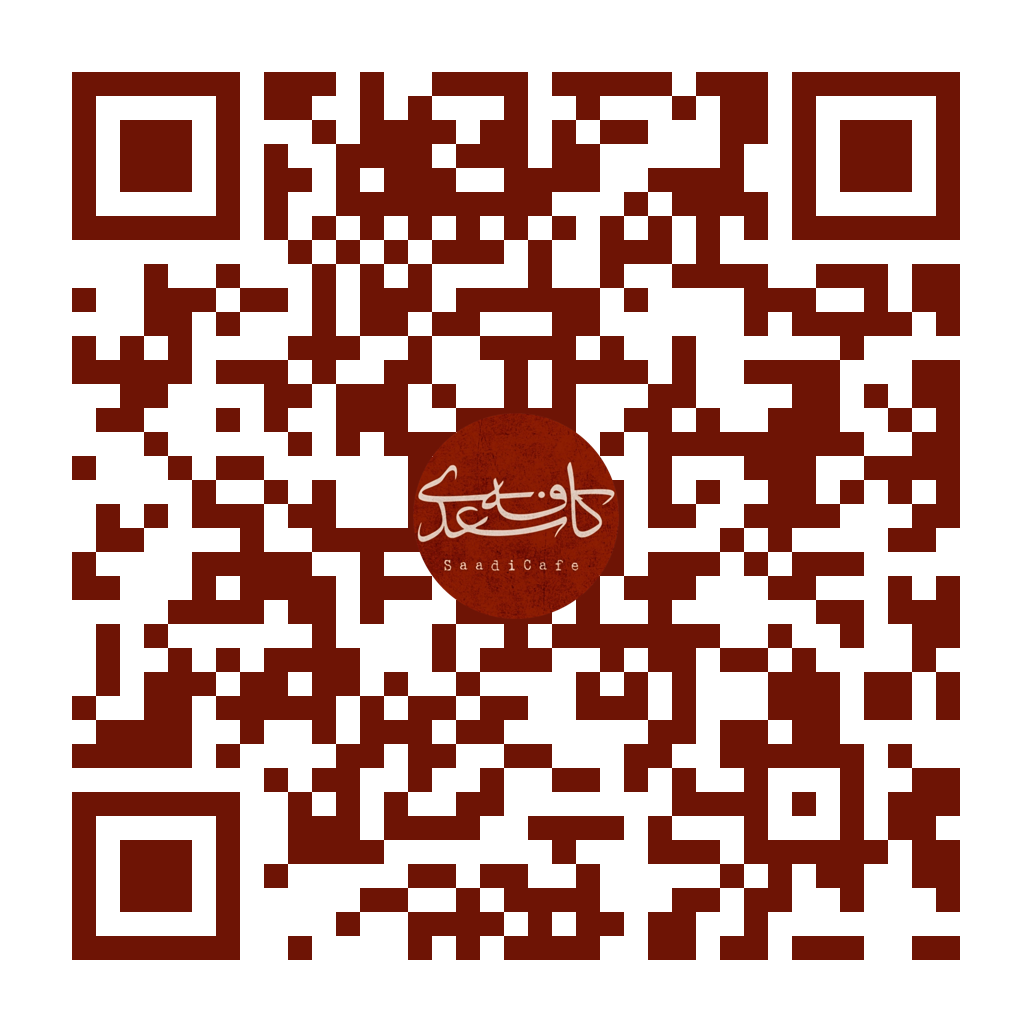
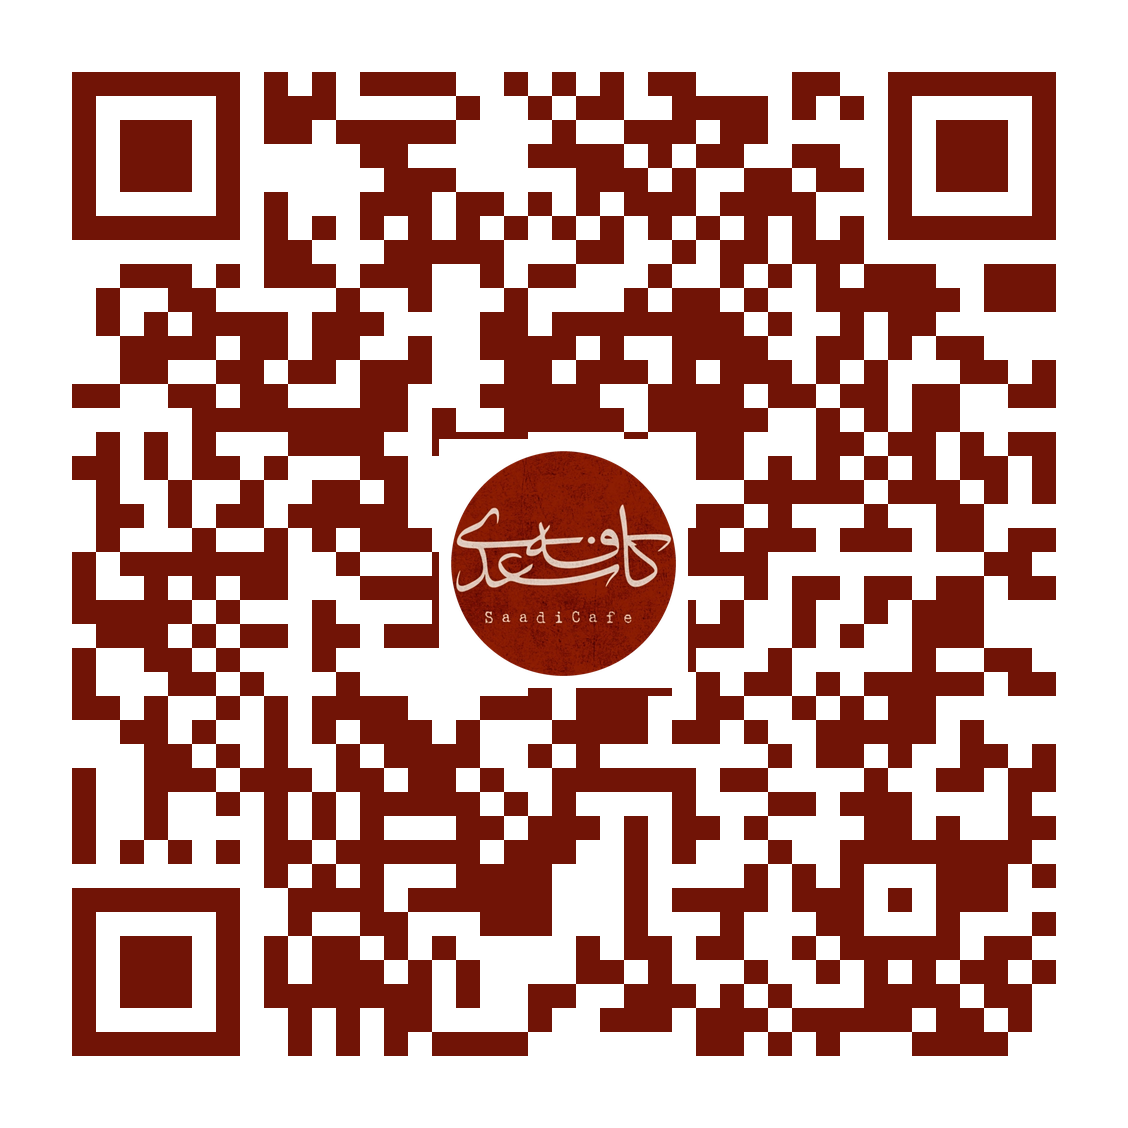
Update QR for the new menu URL
Claude-Session: https://claude.ai/code/session_015qUgpJDU8gt88T48ArSBPE

diff --git a/README.md b/README.md
@@ -3,4 +3,4 @@
 Brand assets and digital menu for Saadi Café.
 
 - `img/logo.png`, `img/background.jpg` — logo and brand background
-- `img/saadi-menu-qr.png` — QR code for the menu site
+- `img/saadi-menu-qr.png` — QR code for https://jpvndcrpt2-bit.github.io/saadi-cafe-menu/
